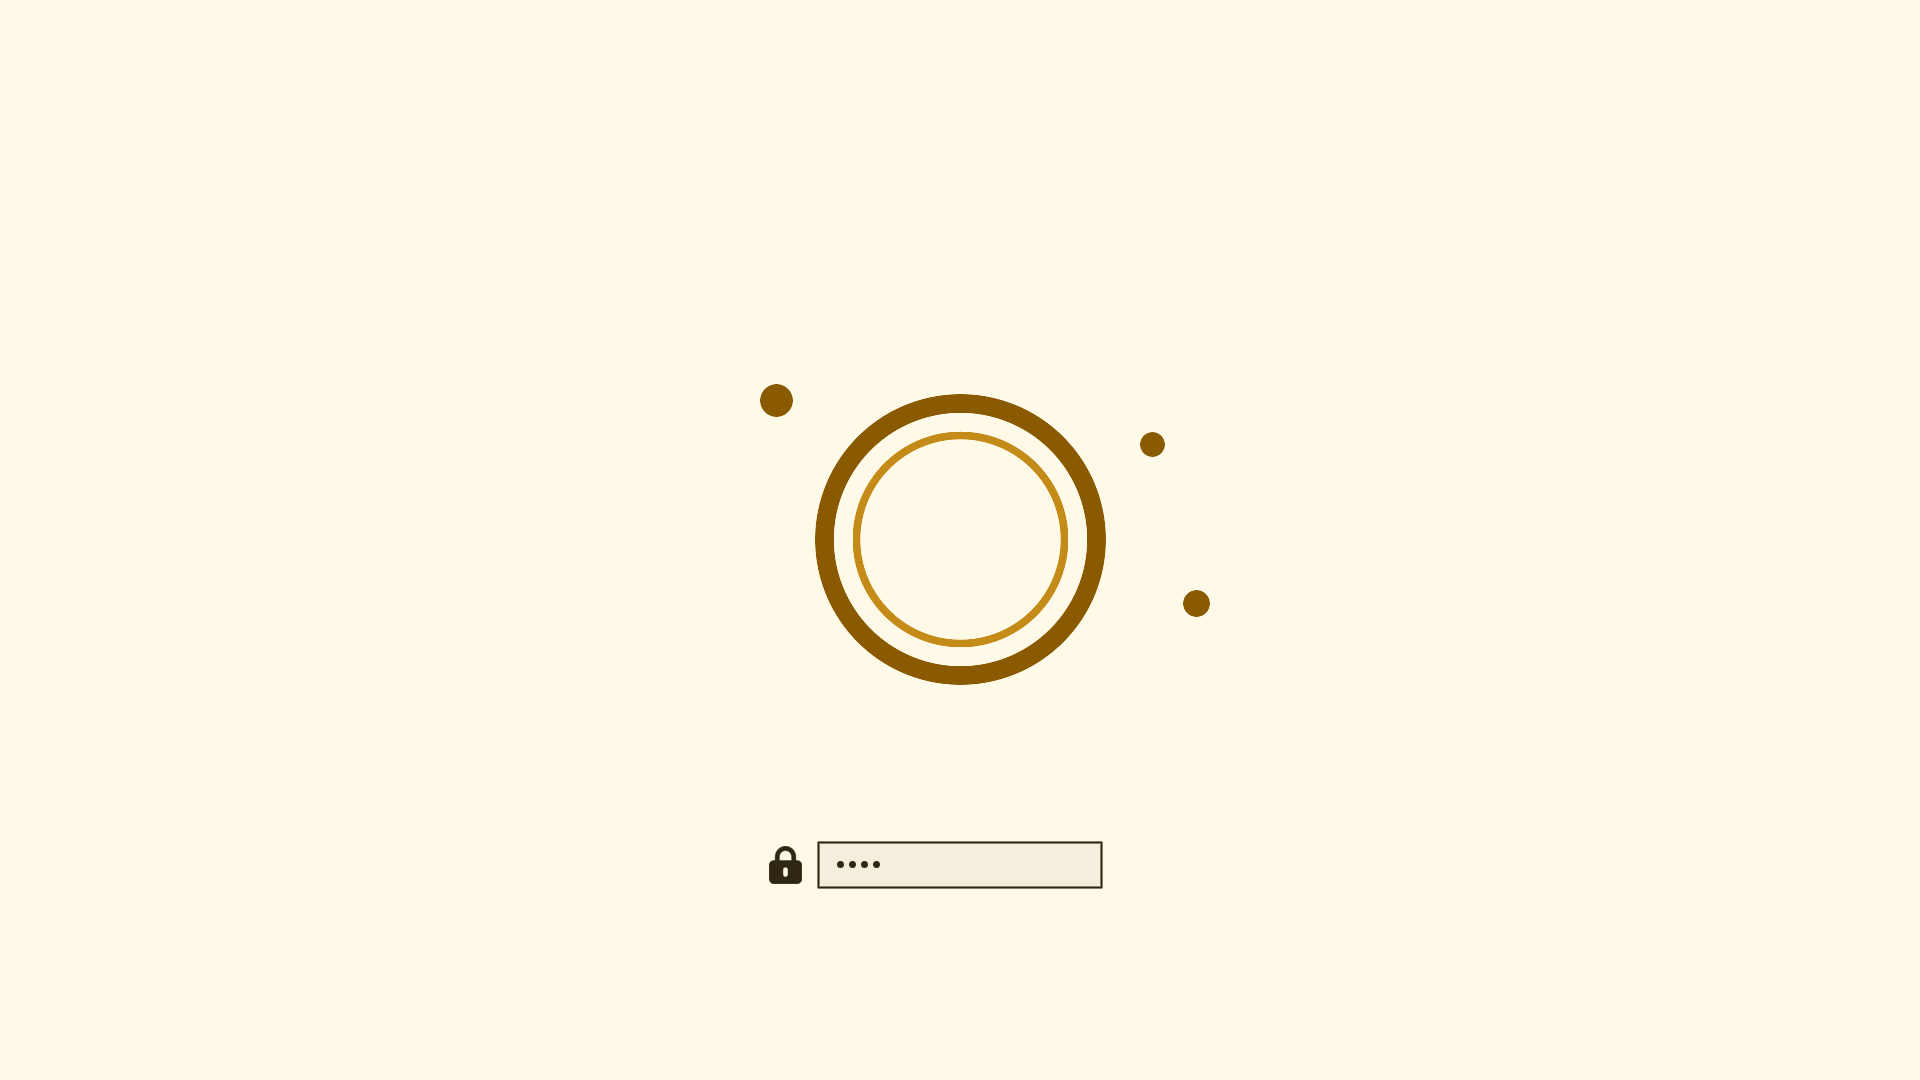
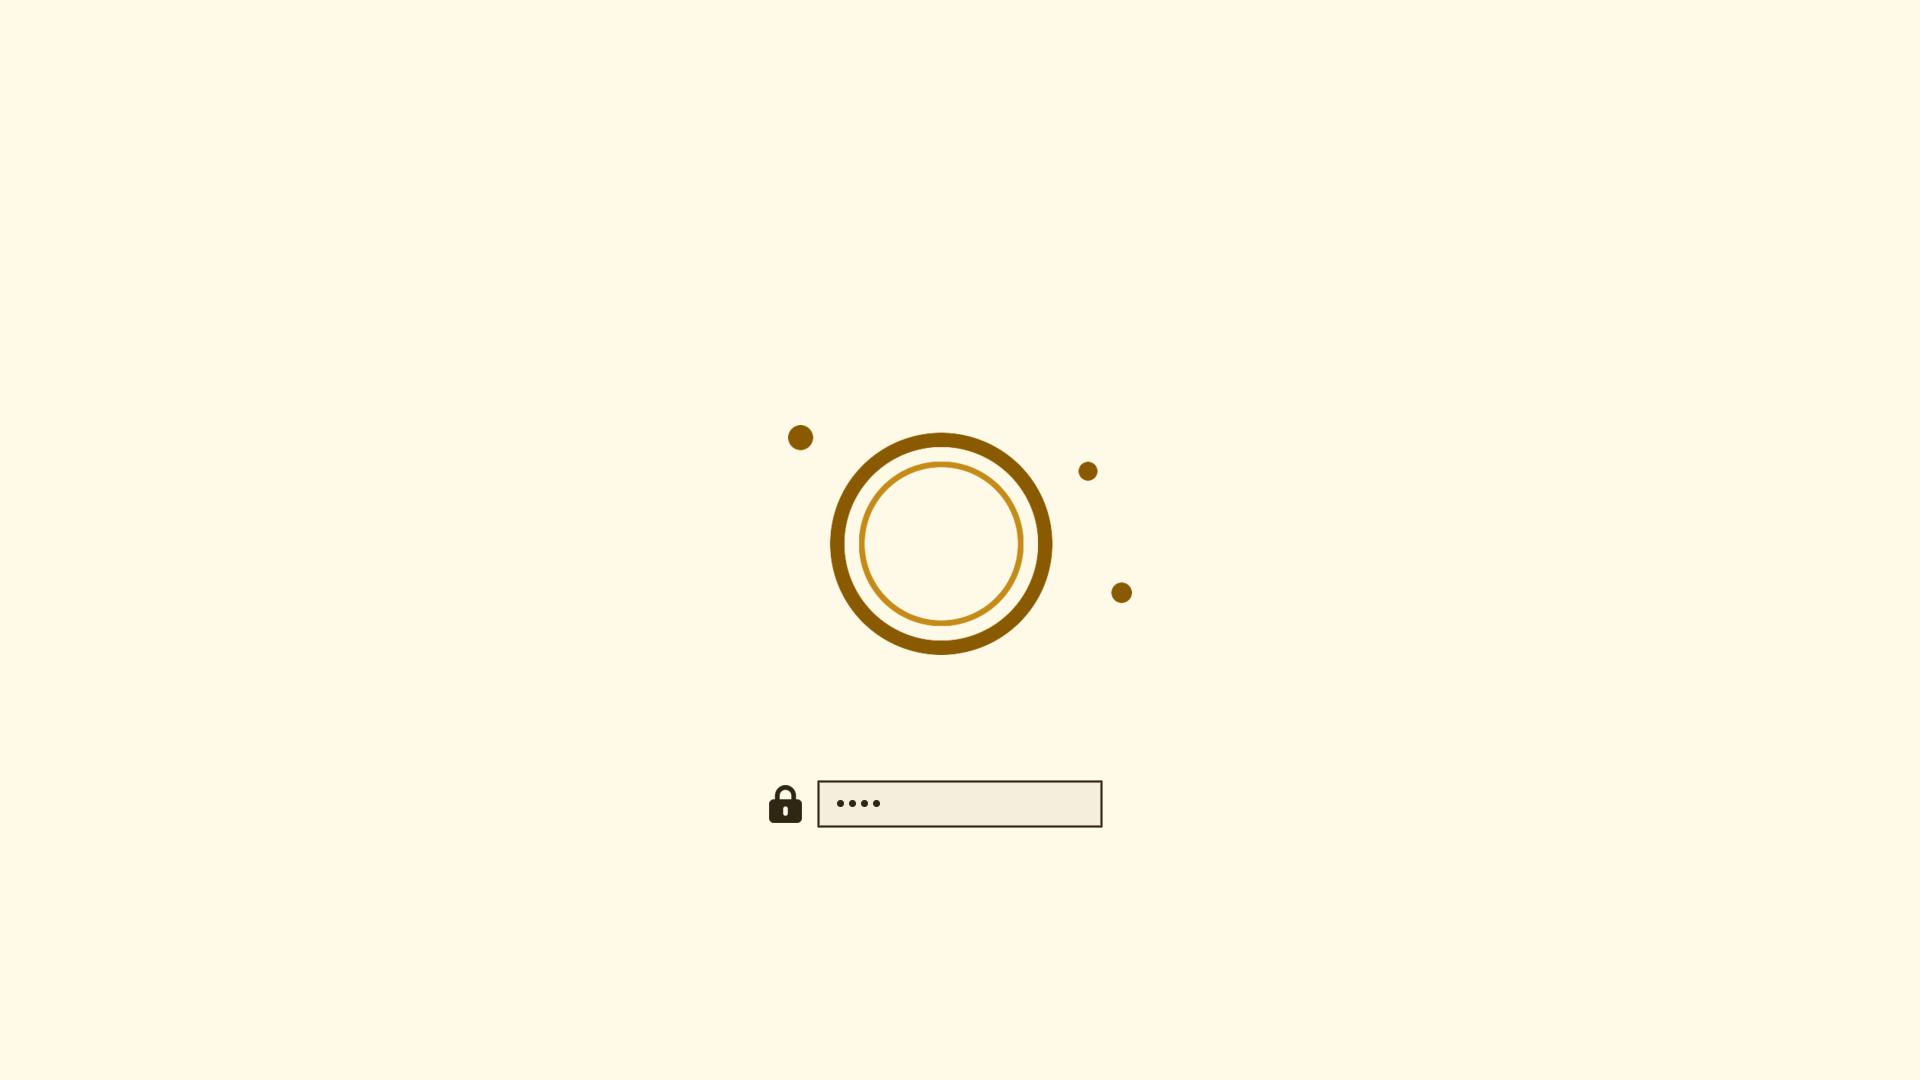
Normalize Plymouth symbol sizing

Changed region(s): [[0.375, 0.3667, 0.625, 0.6417], [0.375, 0.7333, 0.5625, 0.825], [0.5938, 0.3972, 0.625, 0.4278]]

diff --git a/README.md b/README.md
@@ -43,7 +43,9 @@ ficam isolados em `integrations/` e são gerados a partir de `colors.toml`.
 ![Prévia do desbloqueio de disco Mooni](preview-unlock.png)
 
 `preview-unlock.png` é renderizado com o símbolo `unlock.png`, as cores do tema
-e a geometria oficial do Plymouth usada pelo Omarchy.
+e a geometria oficial do Plymouth usada pelo Omarchy. Mooni e Mooni Dark usam
+a mesma tela transparente de 800×400 e uma caixa visual intermediária de
+344×234 para manter símbolo e campo de senha alinhados.
 
 ## Wallpapers
 

diff --git a/README.en.md b/README.en.md
@@ -66,6 +66,10 @@ python3 scripts/validate-theme.py
 The validator checks the palette, contrast, shell coverage, previews,
 wallpapers, and synchronization of generated integrations.
 
+Mooni and Mooni Dark normalize their Plymouth symbols to a shared 800×400
+transparent canvas and an intermediate 344×234 visual box, keeping the symbol
+and password field aligned between variants.
+
 ## License
 
 [MIT](LICENSE).
